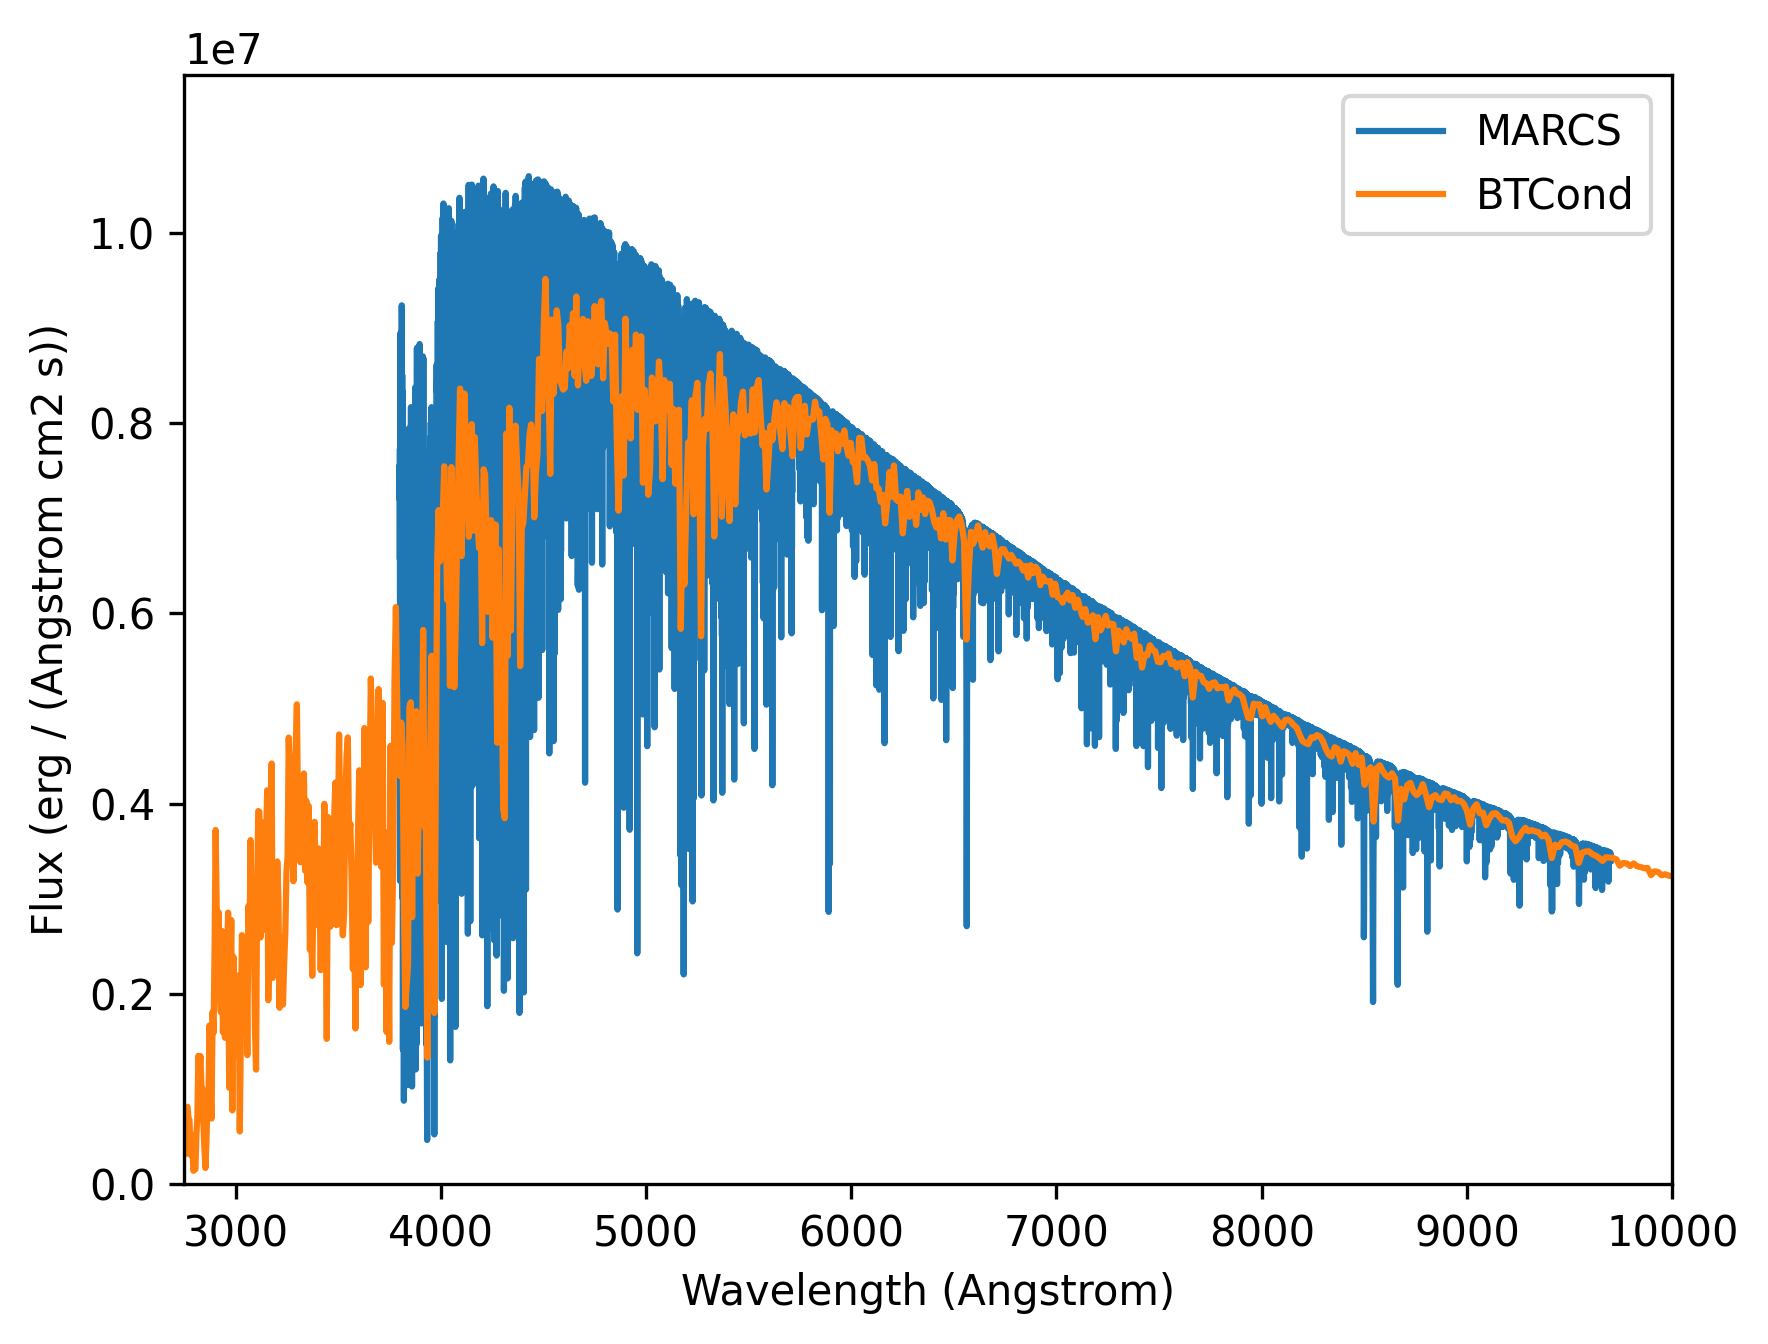
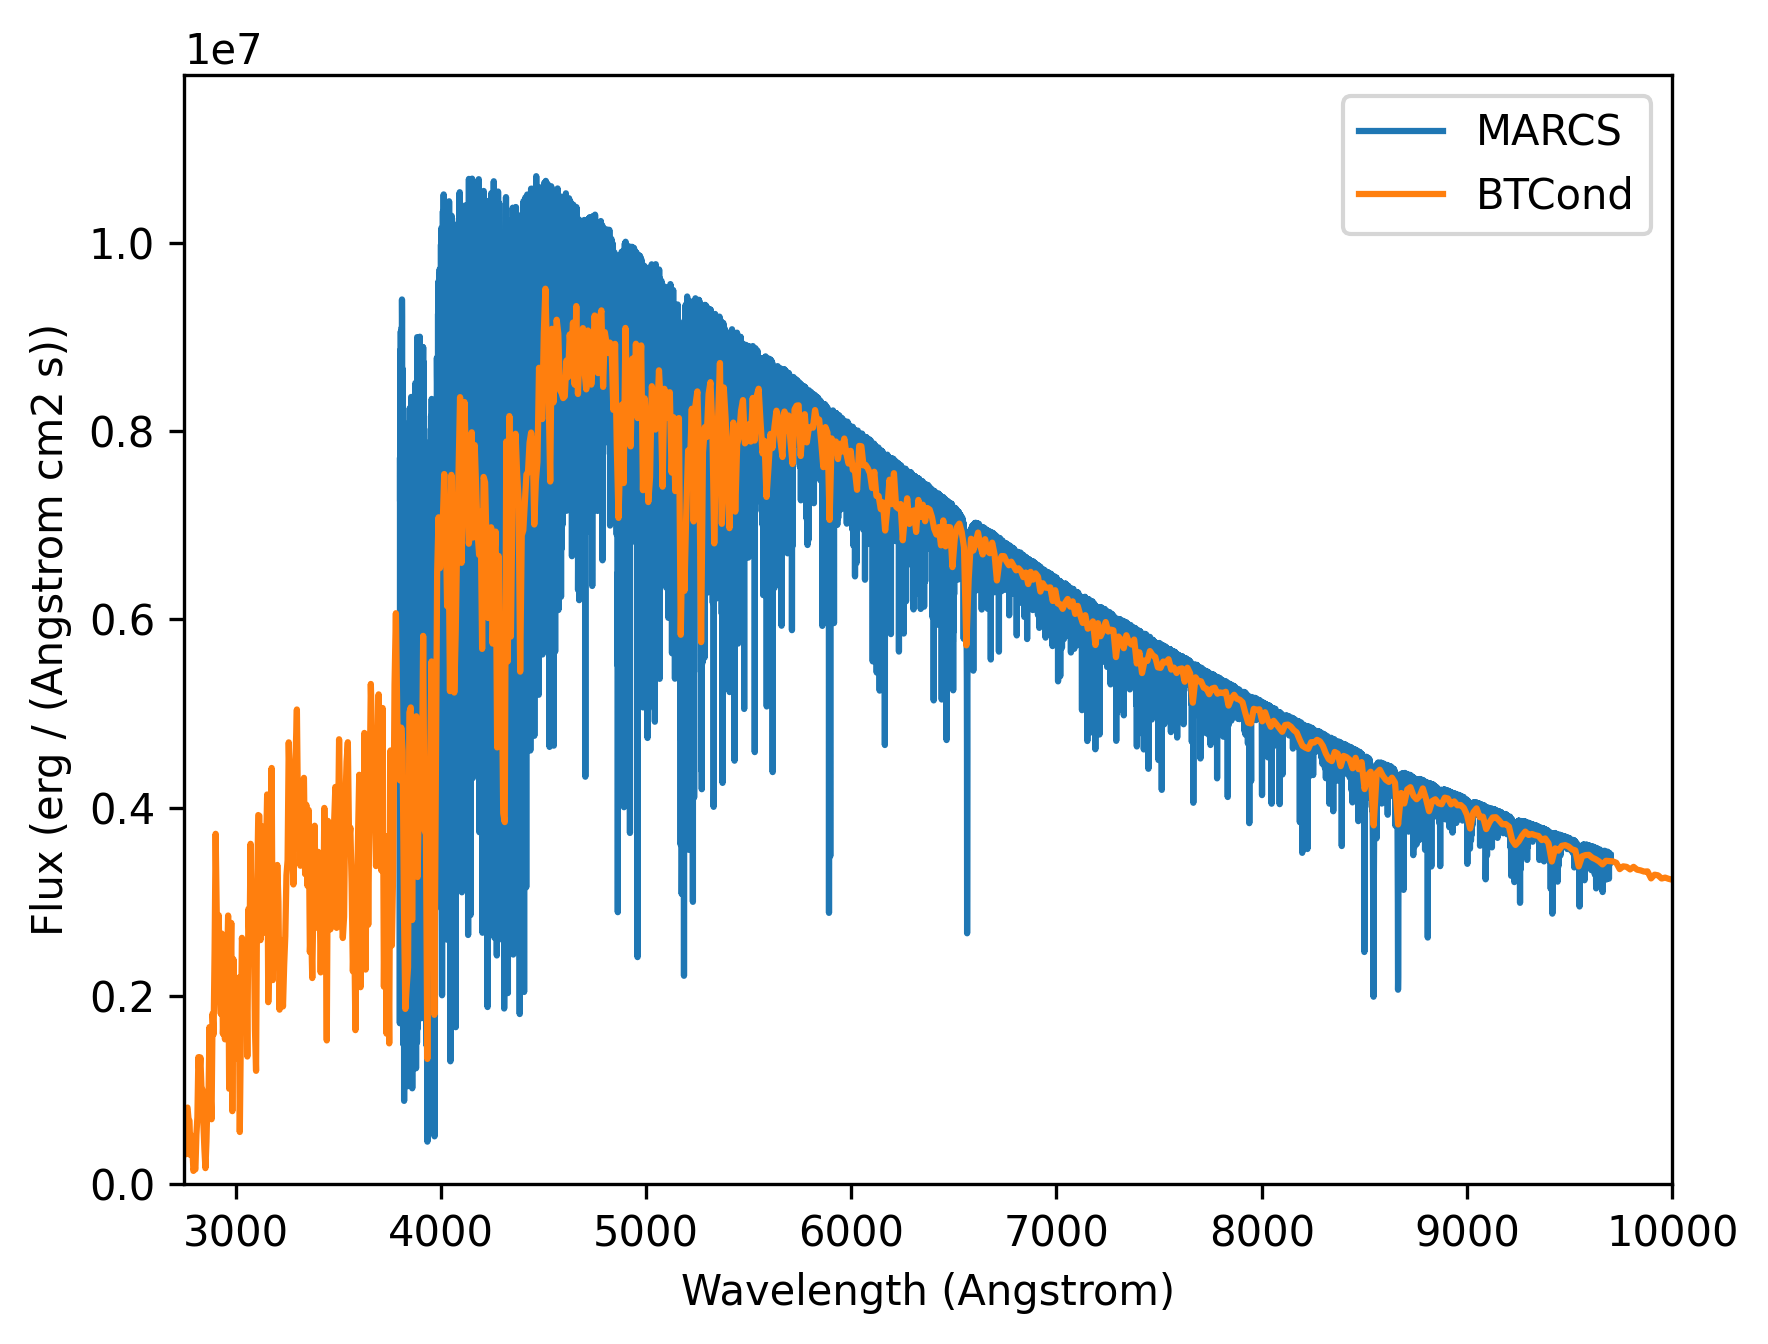
update the MARCS grid

diff --git a/demo.py b/demo.py
@@ -10,12 +10,19 @@ def main():
     print('min and max Teff of MARCS grid =', marcs_model.min_teff, marcs_model.max_teff)
     print('min and max FeH of MARCS grid =', marcs_model.min_feh, marcs_model.max_feh)
     print('min and max logg of MARCS grid =', marcs_model.min_logg, marcs_model.max_logg)
+    print('Teff grid of MARCS =', marcs_model.teff_grid)
+    print('FeH grid of MARCS =', marcs_model.feh_grid)
+    print('logg grid of MARCS =', marcs_model.logg_grid)
+    print('\n')
 
     print('BTCond wavelength unit =', btcond_model.wavelength_units)
     print('BTCond flux units =', btcond_model.flux_units)
     print('min and max Teff of BTCond grid =', btcond_model.min_teff, btcond_model.max_teff)
     print('min and max FeH of BTCond grid =', btcond_model.min_feh, btcond_model.max_feh)
     print('min and max logg of BTCond grid =', btcond_model.min_logg, btcond_model.max_logg)
+    print('Teff grid of BTCond =', btcond_model.teff_grid)
+    print('FeH grid of BTCond =', btcond_model.feh_grid)
+    print('logg grid of BTCond =', btcond_model.logg_grid)
 
     teff = 5700
     feh = 0

diff --git a/stellarSpecModel/config.py b/stellarSpecModel/config.py
@@ -8,7 +8,7 @@ grid_data_dir = '{}/.stellarSpecModel/grid_data/'.format(home_dir)
 
 grid_names = {
     # grid_name: (file_name, url, md5)
-    'MARCS': ('MARCS_grid.hdf5', 'https://www.jianguoyun.com/p/DZmcNoUQ2ZfcCBjW-5cFIAA', '12a8d81e58db4e2fe5f1a79f6da3d9b8'),
+    'MARCS': ('MARCS_grid.hdf5', 'https://www.jianguoyun.com/p/DZmcNoUQ2ZfcCBjW-5cFIAA', 'e94e1f52807aa647bb4e9a9bce37e352'),
     'BTCond': ('BTCond_grid.hdf5', 'https://www.jianguoyun.com/p/Def5fgsQ2ZfcCBiYmpgFIAA', '6f8d2c136f9aa1188b4649c6a4f1d2e1'),
 }
 

diff --git a/README.md b/README.md
@@ -49,12 +49,19 @@ print('MARCS flux units =', marcs_model.flux_units)
 print('min and max Teff of MARCS grid =', marcs_model.min_teff, marcs_model.max_teff)
 print('min and max FeH of MARCS grid =', marcs_model.min_feh, marcs_model.max_feh)
 print('min and max logg of MARCS grid =', marcs_model.min_logg, marcs_model.max_logg)
+print('Teff grid of MARCS =', marcs_model.teff_grid)
+print('FeH grid of MARCS =', marcs_model.feh_grid)
+print('logg grid of MARCS =', marcs_model.logg_grid)
+print('\n')
 
 print('BTCond wavelength unit =', btcond_model.wavelength_units)
 print('BTCond flux units =', btcond_model.flux_units)
 print('min and max Teff of BTCond grid =', btcond_model.min_teff, btcond_model.max_teff)
 print('min and max FeH of BTCond grid =', btcond_model.min_feh, btcond_model.max_feh)
 print('min and max logg of BTCond grid =', btcond_model.min_logg, btcond_model.max_logg)
+print('Teff grid of BTCond =', btcond_model.teff_grid)
+print('FeH grid of BTCond =', btcond_model.feh_grid)
+print('logg grid of BTCond =', btcond_model.logg_grid)
 
 teff = 5700
 feh = 0
@@ -74,14 +81,28 @@ The output of the above code is:
 ```bash
 MARCS wavelength unit = Angstrom
 MARCS flux units = erg / (Angstrom cm2 s)
-min and max Teff of MARCS grid = 3600.0 8000.0
+min and max Teff of MARCS grid = 2700.0 8000.0
 min and max FeH of MARCS grid = -4.0 1.0
-min and max logg of MARCS grid = 3.0 5.0
+min and max logg of MARCS grid = 2.0 5.0
+Teff grid of MARCS = [2700. 2800. 2900. 3000. 3100. 3200. 3300. 3400. 3500. 3600. 3700. 3800.
+ 3900. 4000. 4250. 4500. 4750. 5000. 5250. 5500. 5750. 6000. 6250. 6500.
+ 6750. 7000. 7250. 7500. 7750. 8000.]
+FeH grid of MARCS = [-4.   -3.   -2.5  -2.   -1.5  -1.   -0.75 -0.5  -0.25  0.    0.25  0.5
+  0.75  1.  ]
+logg grid of MARCS = [2.  2.5 3.  3.5 4.  4.5 5. ]
+
+
 BTCond wavelength unit = Angstrom
 BTCond flux units = erg / (Angstrom cm2 s)
 min and max Teff of BTCond grid = 3500.0 8000.0
 min and max FeH of BTCond grid = -4.0 0.5
 min and max logg of BTCond grid = 1.0 5.0
+Teff grid of BTCond = [3500. 3600. 3700. 3800. 3900. 4000. 4100. 4200. 4300. 4400. 4500. 4600.
+ 4700. 4800. 4900. 5000. 5100. 5200. 5300. 5400. 5500. 5600. 5700. 5800.
+ 5900. 6000. 6100. 6200. 6300. 6400. 6500. 6600. 6700. 6800. 6900. 7000.
+ 7200. 7400. 7600. 7800. 8000.]
+FeH grid of BTCond = [-4.  -3.5 -3.  -2.5 -2.  -1.5 -1.  -0.5  0.   0.3  0.5]
+logg grid of BTCond = [1.  1.5 2.  2.5 3.  3.5 4.  4.5 5. ]
 ```
 ![example](https://github.com/zzxihep/stellarSpecModel/blob/main/example.png)
 
